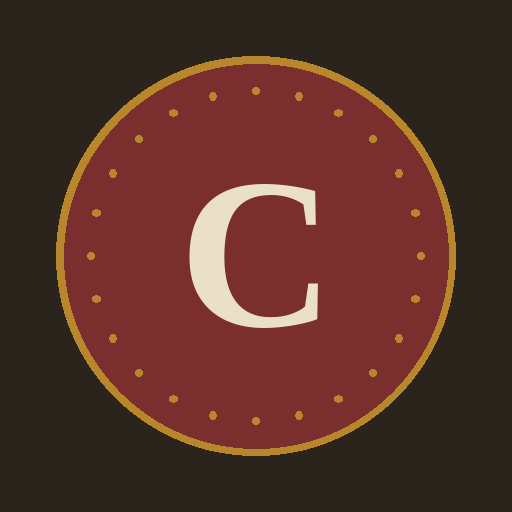
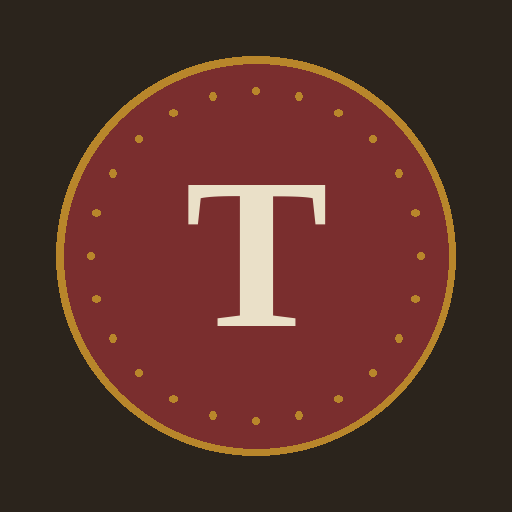
Add files via upload

Changed region(s): [[0.3438, 0.3438, 0.6562, 0.6562]]

diff --git a/index.html b/index.html
@@ -6,18 +6,18 @@
 <meta name="mobile-web-app-capable" content="yes">
 <meta name="apple-mobile-web-app-capable" content="yes">
 <meta name="theme-color" content="#EAE0C8">
-<meta name="description" content="Convivium: sechs historische Gastmähler zum Nachkochen — vom antiken Athen über Rom, Wikinger-Haithabu und Mittelalter bis zur Renaissance. Mit Einkaufsliste, Zeitplan und Quellenangaben zu jedem Gericht.">
+<meta name="description" content="Tafelreise: sechs historische Gastmähler zum Nachkochen — vom antiken Athen über Rom, Wikinger-Haithabu und Mittelalter bis zur Renaissance. Mit Einkaufsliste, Zeitplan und Quellenangaben zu jedem Gericht.">
 <meta name="keywords" content="historisches Kochen, Living History, Reenactment Rezepte, mittelalterliche Rezepte, antikes Rom Rezepte, Wikinger Essen, Renaissance Rezepte, Gastmahl, Dutch Oven Rezepte">
 <meta name="robots" content="index, follow">
 <link rel="canonical" href="https://convivium.afien1987.workers.dev/">
 <meta property="og:type" content="website">
-<meta property="og:title" content="Convivium — Eine kulinarische Zeitreise">
+<meta property="og:title" content="Tafelreise — Eine kulinarische Zeitreise">
 <meta property="og:description" content="Sechs historische Gastmähler zum Nachkochen, mit Quellenangaben, Einkaufsliste und Zeitplan: Antikes Griechenland, Rom, Haithabu, Hoch- & Spätmittelalter, Renaissance.">
 <meta property="og:url" content="https://convivium.afien1987.workers.dev/">
 <meta property="og:image" content="https://convivium.afien1987.workers.dev/icon-512.png">
 <meta property="og:locale" content="de_DE">
 <meta name="twitter:card" content="summary">
-<meta name="twitter:title" content="Convivium — Eine kulinarische Zeitreise">
+<meta name="twitter:title" content="Tafelreise — Eine kulinarische Zeitreise">
 <meta name="twitter:description" content="Sechs historische Gastmähler zum Nachkochen, mit Quellenangaben, Einkaufsliste und Zeitplan.">
 <meta name="twitter:image" content="https://convivium.afien1987.workers.dev/icon-512.png">
 <link rel="icon" type="image/png" sizes="32x32" href="icon-32.png">
@@ -25,7 +25,7 @@
 <link rel="icon" type="image/png" sizes="512x512" href="icon-512.png">
 <link rel="apple-touch-icon" sizes="180x180" href="icon-180.png">
 <link rel="manifest" href="manifest.json">
-<title>Convivium — Gastmähler</title>
+<title>Tafelreise — Gastmähler</title>
 <link rel="preconnect" href="https://fonts.googleapis.com">
 <link href="https://fonts.googleapis.com/css2?family=EB+Garamond:ital,wght@0,400;0,500;0,600;1,400&family=Cormorant+Garamond:wght@500;600;700&family=JetBrains+Mono:wght@400;500&display=swap" rel="stylesheet">
 <style>
@@ -341,7 +341,7 @@
 </head>
 <body>
 <div id="seo-fallback">
-  <h1>Convivium — Eine kulinarische Zeitreise</h1>
+  <h1>Tafelreise — Eine kulinarische Zeitreise</h1>
   <p>Sechs historische Gastmähler zum Nachkochen, mit Einkaufsliste, Zeitplan und Quellenangaben zu jedem Gericht — von der griechischen Antike bis zur Renaissance.</p>
   <ul>
     <li><strong>Deipnon Attikon</strong> (Athen, ca. 400 v. Chr.) — Linsensuppe, Kandaulos und gebackener Fisch nach Athenaios und Archestratos.</li>
@@ -358,8 +358,8 @@
 {
   "@context": "https://schema.org",
   "@type": "WebApplication",
-  "name": "Convivium",
-  "alternateName": "Convivium — Eine kulinarische Zeitreise",
+  "name": "Tafelreise",
+  "alternateName": "Tafelreise — Eine kulinarische Zeitreise",
   "description": "Sechs historische Gastmähler zum Nachkochen, mit Einkaufsliste, Zeitplan und Quellenangaben zu jedem Gericht — von der griechischen Antike bis zur Renaissance.",
   "applicationCategory": "LifestyleApplication",
   "operatingSystem": "Any",
@@ -887,7 +887,7 @@ function generateICS(menu, offset, datumStr){
   const now = new Date();
   const [y,mo,d] = (datumStr||todayISODate()).split('-').map(Number);
   const base = new Date(y, mo-1, d);
-  let ics = 'BEGIN:VCALENDAR\r\nVERSION:2.0\r\nPRODID:-//Convivium//Gastmahl//DE\r\nCALSCALE:GREGORIAN\r\n';
+  let ics = 'BEGIN:VCALENDAR\r\nVERSION:2.0\r\nPRODID:-//Tafelreise//Gastmahl//DE\r\nCALSCALE:GREGORIAN\r\n';
   menu.timeline.forEach((row, i)=>{
     const t = shiftTime(row.t, offset);
     const [h,m] = t.split(':').map(Number);
@@ -1044,7 +1044,7 @@ const appEl = document.getElementById('app');
 function renderHome(){
   let html = `
     <div class="home-hero">
-      <div class="eyebrow">Convivium</div>
+      <div class="eyebrow">Tafelreise</div>
       <h1>Sechs Gastmähler</h1>
       <p>Eine kulinarische Zeitreise von der Antike bis zur Renaissance. Wähle ein Gastmahl und arbeite Vorbereitung und Zeitplan Schritt für Schritt ab.</p>
     </div>
@@ -1064,8 +1064,8 @@ function renderHome(){
     `;
   });
   html += `</div>
-    <div class="footer-note">Tipp: Über das Browser-Menü „Zum Startbildschirm hinzufügen“ wählen, dann startet Convivium wie eine eigene App.
-      <br><a class="kofi-link" href="https://ko-fi.com/adrianfien" target="_blank" rel="noopener">☕ Gefällt dir Convivium? Kauf mir einen Kaffee</a>
+    <div class="footer-note">Tipp: Über das Browser-Menü „Zum Startbildschirm hinzufügen“ wählen, dann startet Tafelreise wie eine eigene App.
+      <br><a class="kofi-link" href="https://ko-fi.com/adrianfien" target="_blank" rel="noopener">☕ Gefällt dir Tafelreise? Kauf mir einen Kaffee</a>
     </div>
   `;
   appEl.innerHTML = html;
@@ -1447,7 +1447,7 @@ function renderGuest(){
       <div class="guest-actions">
         <button class="btn" id="shareBtn" style="border-color:${menu.accent}; color:${menu.accent};">Teilen</button>
       </div>
-      <div class="footer-note"><a class="kofi-link" href="https://ko-fi.com/adrianfien" target="_blank" rel="noopener">☕ Gefällt dir Convivium? Kauf mir einen Kaffee</a></div>
+      <div class="footer-note"><a class="kofi-link" href="https://ko-fi.com/adrianfien" target="_blank" rel="noopener">☕ Gefällt dir Tafelreise? Kauf mir einen Kaffee</a></div>
     </div>
   `;
   appEl.innerHTML = html;
